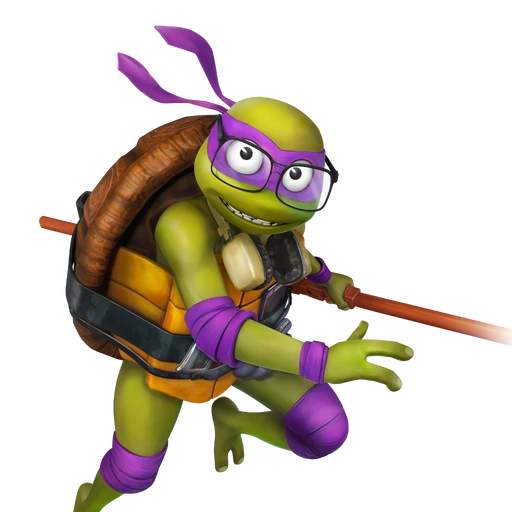
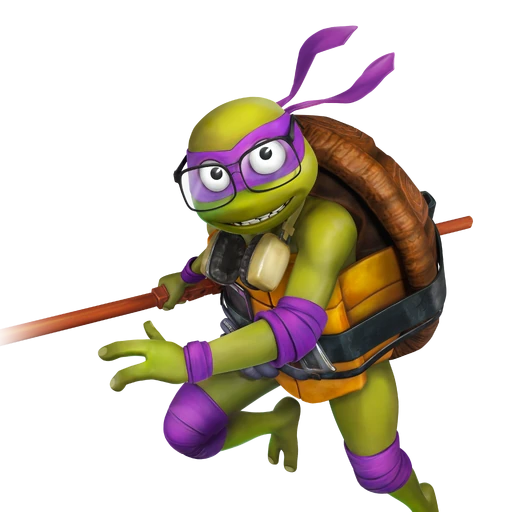
Refresh racer artwork and card stat labels

diff --git a/frontend/src/styles.css b/frontend/src/styles.css
@@ -720,7 +720,7 @@ main:has(.explore-hero) {
 }
 .card-stat { min-width: 0; --stat-color: var(--accent); }
 .card-stat > div { display: flex; align-items: baseline; justify-content: space-between; gap: 6px; margin-bottom: 6px; }
-.card-stat dt { min-width: 0; color: var(--muted); font-size: 10px; font-weight: 750; letter-spacing: .1px; overflow-wrap: anywhere; text-transform: uppercase; }
+.card-stat dt { min-width: 0; color: var(--muted); font-size: 10px; font-weight: 750; letter-spacing: .1px; text-transform: uppercase; white-space: nowrap; }
 .card-stat dd { margin: 0; color: #eef5ff; font-size: 16px; font-weight: 800; font-variant-numeric: tabular-nums; }
 .card-stat-track { display: flex; height: 6px; overflow: hidden; border-radius: 999px; background: #0d131d; }
 .card-stat-track > span { display: block; height: 100%; border-radius: inherit; background: var(--stat-color); }

diff --git a/frontend/src/components.tsx b/frontend/src/components.tsx
@@ -24,6 +24,9 @@ export function Artwork({
 }) {
   const [failed, setFailed] = useState(false);
   const local = item.imagePath?.startsWith("/assets/");
+  const imageUrl = item.imagePath?.startsWith("/assets/racers/")
+    ? `${item.imagePath}?v=left-facing-artwork`
+    : item.imagePath;
   const racingType = "racingType" in item ? item.racingType ?? "unknown" : "gadget";
   return (
     <div
@@ -31,7 +34,7 @@ export function Artwork({
     >
       {local && !failed ? (
         <img
-          src={item.imagePath!}
+          src={imageUrl!}
           alt={item.name}
           onError={() => setFailed(true)}
         />

diff --git a/frontend/src/components.test.tsx b/frontend/src/components.test.tsx
@@ -18,7 +18,7 @@ it("shows official local artwork even when the racing type is unknown", () => {
   const html = renderToStaticMarkup(
     <Artwork item={{ ...racer, name: "Sample Racer", imagePath: "/assets/racers/sample-racer.png" }} />,
   );
-  expect(html).toContain('src="/assets/racers/sample-racer.png"');
+  expect(html).toContain('src="/assets/racers/sample-racer.png?v=left-facing-artwork"');
   expect(html).toContain('alt="Sample Racer"');
 });
 
